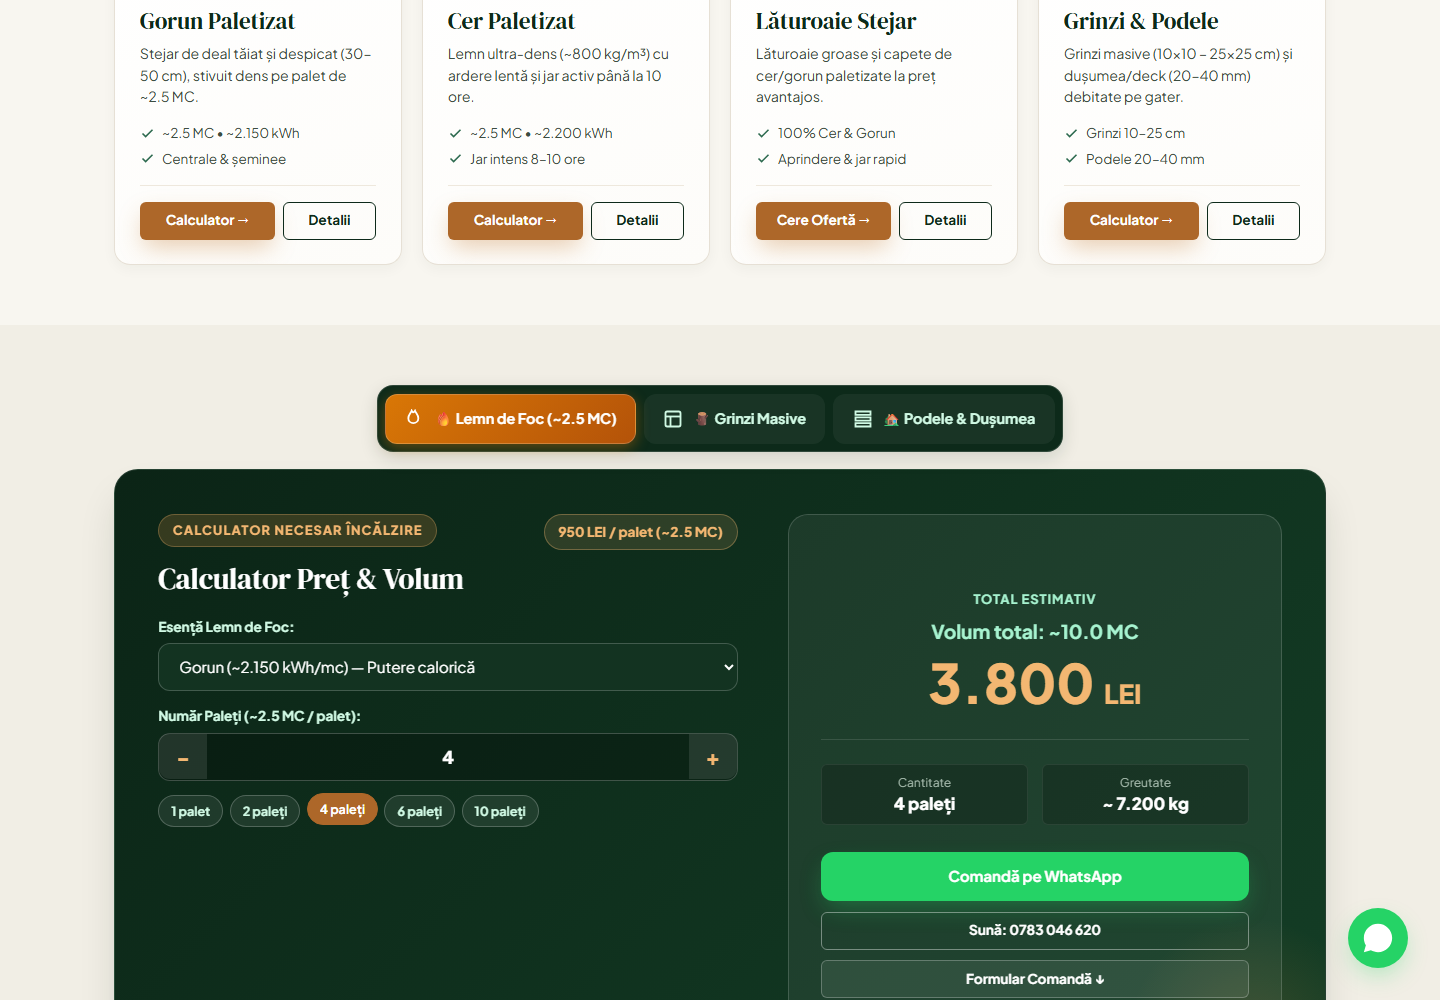
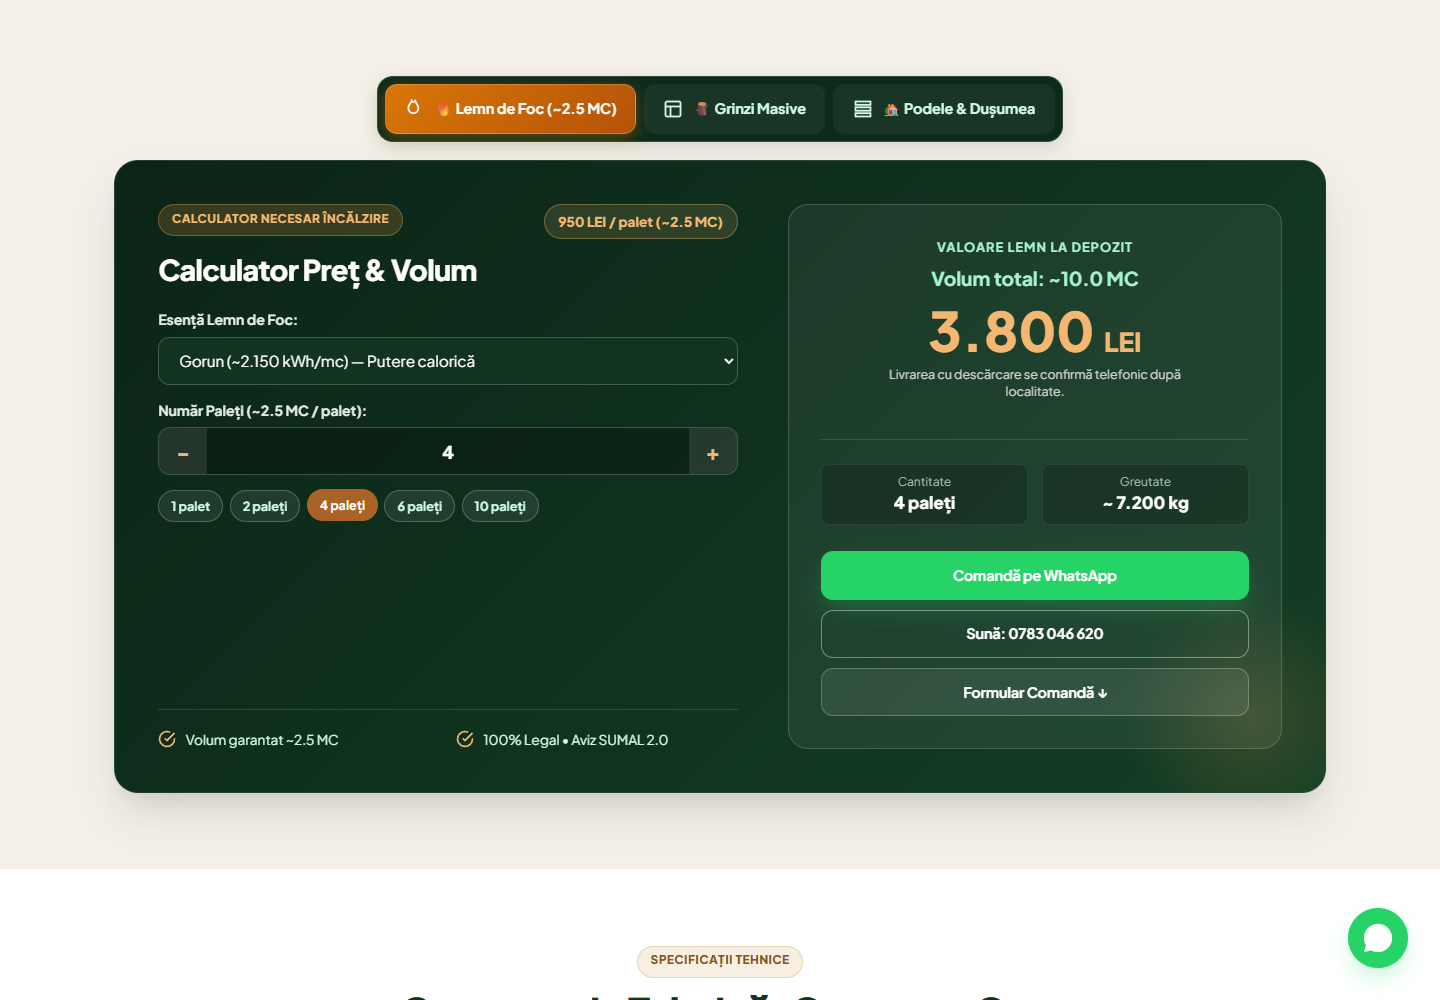
docs: refresh full-site screenshots

diff --git a/README.md b/README.md
@@ -4,42 +4,102 @@ Website de prezentare și comandă pentru lemn de foc paletizat, grinzi și pode
 
 ## Capturi de pe site
 
-### Pagina principală
+Capturile arată varianta desktop (1440 px) și cea mobilă (390 px). Pentru calculator și formular, cadrul mobil este mai înalt, astfel încât să se vadă complet componentele importante.
+
+### Acasă — prezentare
 
 <p>
   <img src="screenshots/home-desktop.png" alt="Pagina principală pe desktop" width="760">
   <img src="screenshots/home-mobile.png" alt="Pagina principală pe mobil" width="225">
 </p>
 
-### Calculator de volum și preț
+### Acasă — catalogul de produse
+
+<p>
+  <img src="screenshots/catalog-desktop.png" alt="Catalogul de produse pe desktop" width="760">
+  <img src="screenshots/catalog-mobile.png" alt="Catalogul de produse pe mobil" width="225">
+</p>
+
+### Acasă — calculator de volum și preț
 
 <p>
   <img src="screenshots/calculator-desktop.png" alt="Calculatorul pe desktop" width="760">
   <img src="screenshots/calculator-mobile.png" alt="Calculatorul pe mobil" width="225">
 </p>
 
-### Contact și comandă
+### Acasă — comandă rapidă
 
 <p>
-  <img src="screenshots/contact-desktop.png" alt="Pagina de contact pe desktop" width="760">
-  <img src="screenshots/contact-mobile.png" alt="Pagina de contact pe mobil" width="225">
+  <img src="screenshots/order-desktop.png" alt="Datele depozitului și formularul de comandă pe desktop" width="760">
+  <img src="screenshots/order-mobile.png" alt="Formularul complet de comandă rapidă pe mobil" width="225">
 </p>
 
-### Formularul Comandă Rapidă Online
+### Debitări la comandă
 
 <p>
-  <img src="screenshots/order-desktop.png" alt="Formularul de comandă rapidă pe desktop" width="760">
-  <img src="screenshots/order-mobile.png" alt="Formularul și câmpul mărit de livrare pe mobil" width="225">
+  <img src="screenshots/services-desktop.png" alt="Pagina de servicii și debitări pe desktop" width="760">
+  <img src="screenshots/services-mobile.png" alt="Pagina de servicii și debitări pe mobil" width="225">
+</p>
+
+### Stoc & Galerie
+
+<p>
+  <img src="screenshots/stock-desktop.png" alt="Stocul și galeria pe desktop" width="760">
+  <img src="screenshots/stock-mobile.png" alt="Stocul și galeria pe mobil" width="225">
+</p>
+
+### Despre noi & companie
+
+<p>
+  <img src="screenshots/about-desktop.png" alt="Prezentarea companiei și datele fiscale pe desktop" width="760">
+  <img src="screenshots/about-mobile.png" alt="Prezentarea companiei pe mobil" width="225">
+</p>
+
+### Despre noi & SUMAL 2.0
+
+<p>
+  <img src="screenshots/sumal-desktop.png" alt="Informațiile despre SUMAL 2.0 pe desktop" width="760">
+  <img src="screenshots/sumal-mobile.png" alt="Informațiile despre SUMAL 2.0 pe mobil" width="225">
+</p>
+
+### Contact și formular
+
+<p>
+  <img src="screenshots/contact-desktop.png" alt="Datele de contact și formularul pe desktop" width="760">
+  <img src="screenshots/contact-mobile.png" alt="Datele de contact și formularul pe mobil" width="225">
+</p>
+
+### Hartă și locația depozitului
+
+<p>
+  <img src="screenshots/map-desktop.png" alt="Harta depozitului cu pinul locației pe desktop" width="760">
+  <img src="screenshots/map-mobile.png" alt="Harta depozitului cu pinul locației pe mobil" width="225">
 </p>
 
 ### Panou administrativ
 
-Capturile de mai jos folosesc comenzi demonstrative cu date de contact fictive.
+Capturile admin folosesc exclusiv comenzi demonstrative și date de contact fictive.
 
 <p>
-  <img src="screenshots/admin-desktop.png" alt="Panoul de administrare pe desktop, cu comenzi demonstrative" width="760">
-  <img src="screenshots/admin-mobile.png" alt="Panoul de administrare pe mobil, cu carduri adaptate ecranului" width="225">
+  <img src="screenshots/admin-desktop.png" alt="Panoul administrativ pe desktop, cu date demonstrative" width="760">
+  <img src="screenshots/admin-mobile.png" alt="Panoul administrativ pe mobil, cu date demonstrative" width="225">
 </p>
+
+### Panou administrativ — carduri de comandă
+
+<p>
+  <img src="screenshots/admin-orders-desktop.png" alt="Carduri de comandă demonstrative în admin pe desktop" width="760">
+  <img src="screenshots/admin-orders-mobile.png" alt="Card de comandă demonstrativ în admin pe mobil" width="225">
+</p>
+
+### Footer și navigare mobilă
+
+<p>
+  <img src="screenshots/footer-desktop.png" alt="Footer-ul site-ului pe desktop" width="760">
+  <img src="screenshots/footer-mobile.png" alt="Footer-ul și bara fixă de navigare pe mobil" width="225">
+</p>
+
+`autorizatii.html` este o adresă veche care redirecționează către secțiunea SUMAL 2.0; capturile ei sunt incluse la „Despre noi & SUMAL 2.0”.
 
 ## Funcționalități
 
@@ -103,6 +163,6 @@ Wrangler rulează site-ul, Worker-ul și containerul PHP; comenzile ajung în ba
 
 Configurația inițială, secretele necesare, baza D1, emailul, domeniul și comenzile de deploy sunt descrise în [ghidul Cloudflare](cloudflare/README.md).
 
-## Capturile
+## Proveniența capturilor
 
-Imaginile din `screenshots/` au fost capturate din versiunea locală a site-ului, la viewport-uri de desktop și mobil.
+Imaginile din `screenshots/` au fost regenerate din versiunea locală. În admin au fost folosite trei comenzi fictive printr-un răspuns API simulat; datele reale din fișierul local sau din D1 nu au fost accesate ori modificate.
